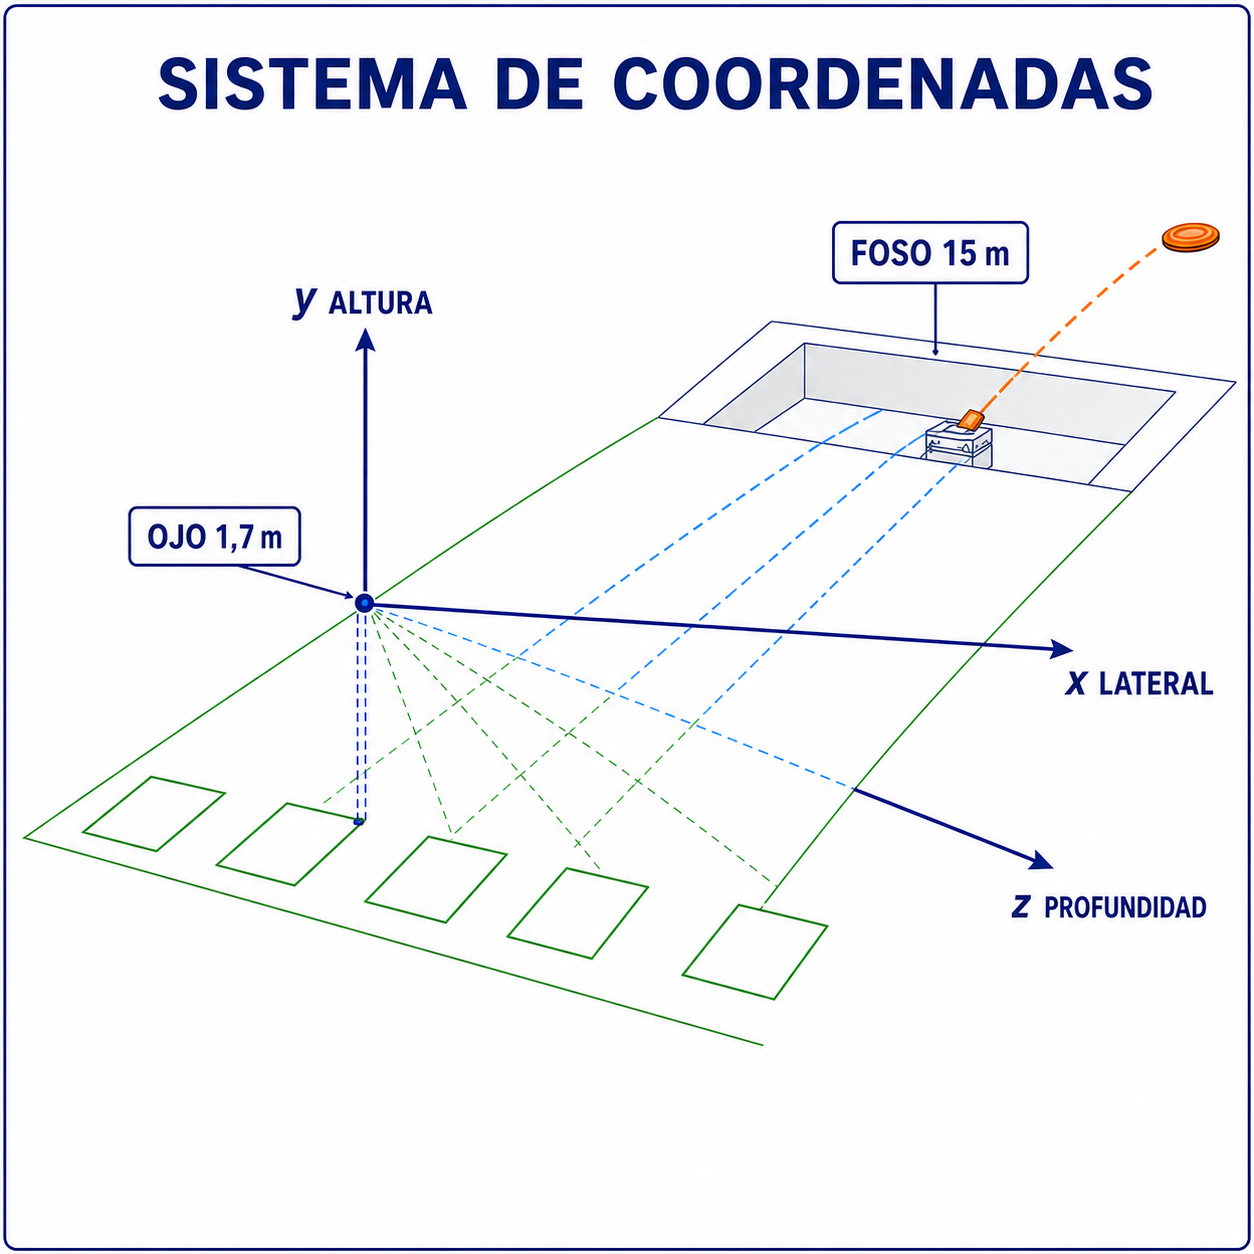
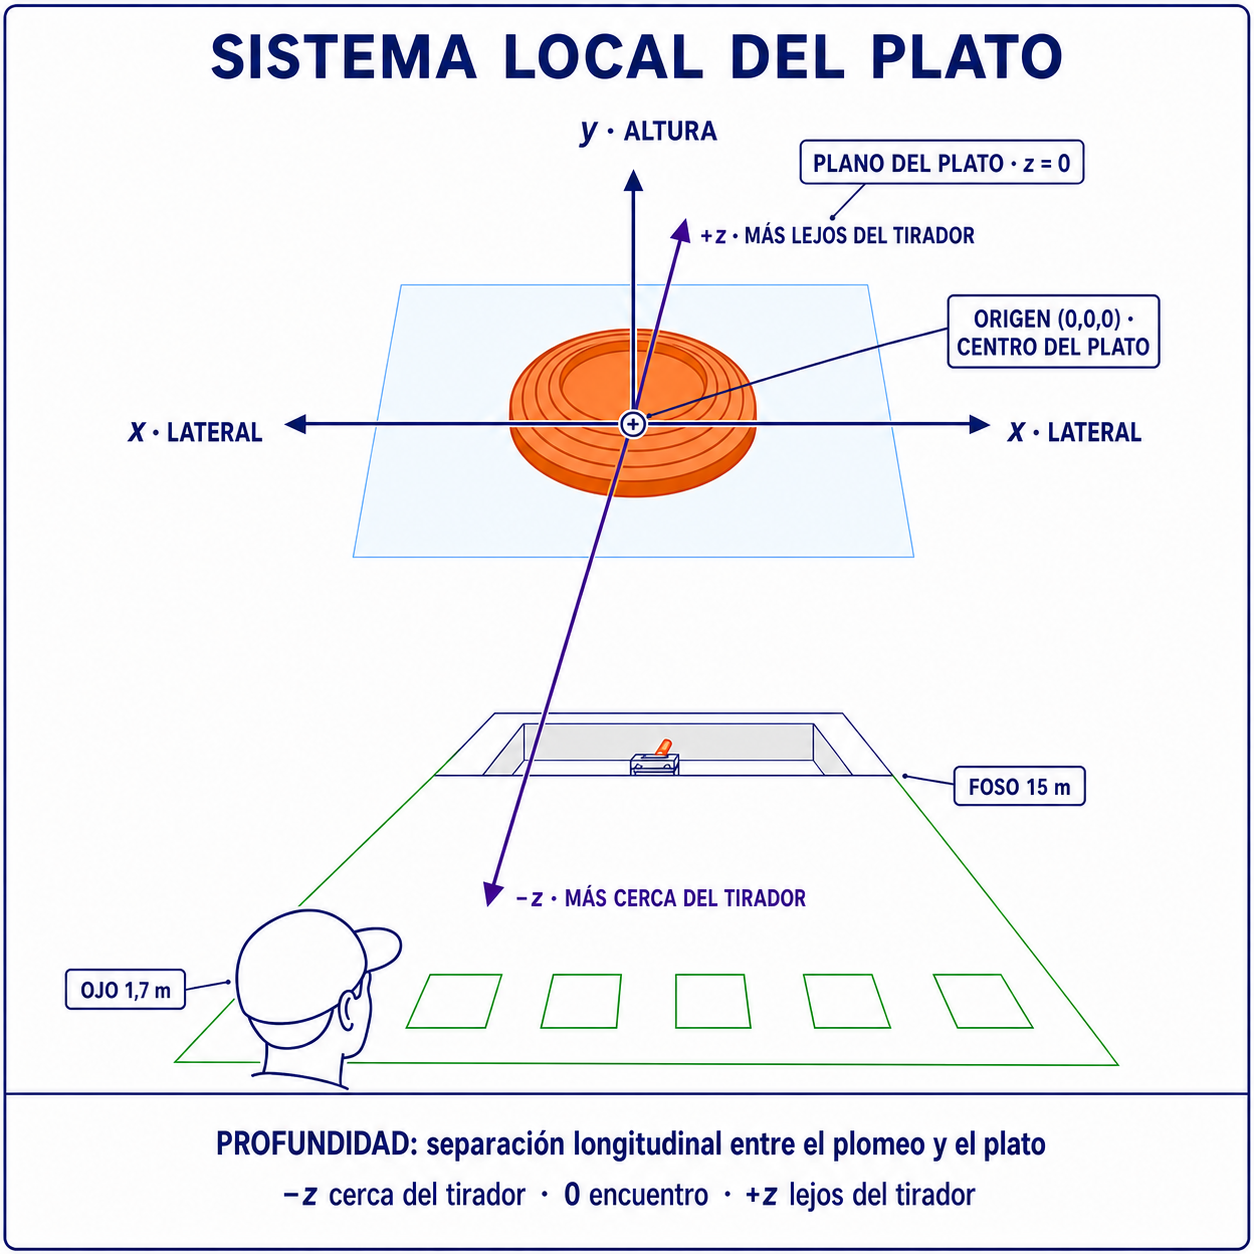
docs: centra las coordenadas en el plato

diff --git a/index.html b/index.html
@@ -2011,12 +2011,13 @@
     <span class="section-number">9.2</span>
     <h3>Sistema de coordenadas</h3>
   <p class="section-bridge">Un modelo es útil cuando explica qué representa, qué simplifica y qué no puede comprobar por sí solo. Para poder revisarlo, primero debemos fijar un sistema común de coordenadas.</p>
-    <p class="section-lead"><strong>Para calcular qué significa «alto», «derecha» o «lejos» hace falta un mapa común.</strong> Plato usa tres ejes, llamados sistema cartesiano: <code>x</code> mide el movimiento lateral, <code>y</code> mide la altura y <code>z</code> avanza desde el tirador hacia el foso y el campo.</p>
+    <p class="section-lead"><strong>Para calcular el vuelo hace falta una referencia fija; para explicar el error hace falta otra centrada en el plato.</strong> Plato usa <code>x</code> para el lateral, <code>y</code> para la altura y <code>z</code> para la profundidad.</p>
     <figure class="figure micro-figure">
-      <img loading="lazy" src="docs/manual-libro/assets/images/infografias/subapartados/09-02-sistema-de-coordenadas.png" width="1254" height="1254" alt="Sistema cartesiano de Plato con ojo, puestos, foso, origen y ejes x lateral, y vertical y z de profundidad">
-      <figcaption>El ojo virtual define la referencia del disparo; los puestos desplazan su coordenada lateral y el foso permanece a 15 m sobre el eje de profundidad.</figcaption>
+      <img loading="lazy" src="docs/manual-libro/assets/images/infografias/subapartados/09-02-sistema-de-coordenadas.png" width="1254" height="1254" alt="Sistema local centrado en el plato con eje x lateral, eje y vertical, plano z igual a cero y profundidad negativa hacia el tirador y positiva hacia el fondo">
+      <figcaption>Para analizar el encuentro, el centro del plato se toma como origen. La profundidad es la separación longitudinal: negativa hacia el tirador, cero en el plano del plato y positiva hacia el fondo.</figcaption>
     </figure>
     <p>La referencia básica es el ojo virtual del tirador. Su posición inicial es <code>(0, 1.7, 0)</code>: cero lateral, 1,7 m de altura y cero de profundidad. El origen horizontal y profundo coincide, por tanto, con el puesto central y el plano del ojo; el suelo está en <code>y = 0</code>. El frente del foso está en <code>z = 15</code> m y la salida visible del plato en <code>y = 0.16</code> m. La máquina se dibuja por debajo y ligeramente detrás de esa boca.</p>
+    <p>Ese marco fijo sirve para mover todos los objetos por la cancha. Al estudiar un disparo, se traslada el origen al centro del plato: <code>Δx = xPerdigón − xPlato</code>, <code>Δy = yPerdigón − yPlato</code> y <code>Δz = zPerdigón − zPlato</code>. Así, <code>Δz &lt; 0</code> sitúa el plomeo más cerca del tirador, <code>Δz = 0</code> lo coloca en el mismo plano de profundidad y <code>Δz &gt; 0</code> indica que ha pasado más lejos. Compartir profundidad no basta para romper el plato: también deben coincidir lateral y altura dentro del volumen de impacto.</p>
     <p>El eje <code>x</code> positivo apunta a la derecha del tirador; un ángulo horizontal positivo produce velocidad hacia ese lado. El eje <code>y</code> positivo asciende. El eje <code>z</code> positivo se aleja del ojo. En Universal, los puestos se separan 2,5 m y la salida visible permanece en el centro; en Olímpica, los puestos se separan 3,15 m y la referencia de salida se alinea con el puesto activo. Al cambiar de puesto, el código modifica <code>eye.x</code>, no teletransporta toda la cancha.</p>
     <p>La mira se define con dos ángulos. El <em>yaw</em> indica el giro a izquierda o derecha. El <em>pitch</em> indica si la mira sube o baja. El programa convierte esos ángulos en un vector unitario, es decir, una dirección cuya longitud es uno. También puede hacer la operación inversa y recuperar los ángulos. Después, la cámara lleva los puntos de la escena 3D a la pantalla 2D. Para ello usa un campo de visión vertical de 48 grados. El zoom solo cambia esta forma de mostrar la escena. No acorta el foso, no acelera el plato y no cambia el punto de encuentro.</p>
     <p>Ejemplo: desde el puesto 1, el ojo tiene una <code>x</code> negativa respecto al centro. Un plato que sale por el centro ya no se ve con la misma dirección que desde el puesto 3. La trayectoria física puede ser idéntica y, sin embargo, su ángulo aparente cambia. Esa es una razón geométrica para practicar puestos sin atribuir toda diferencia a la máquina.</p>
